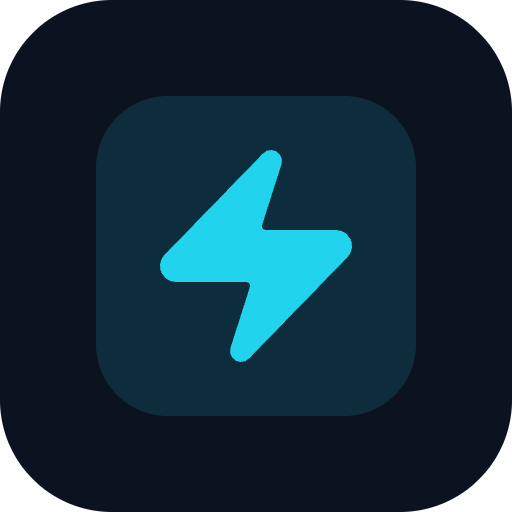
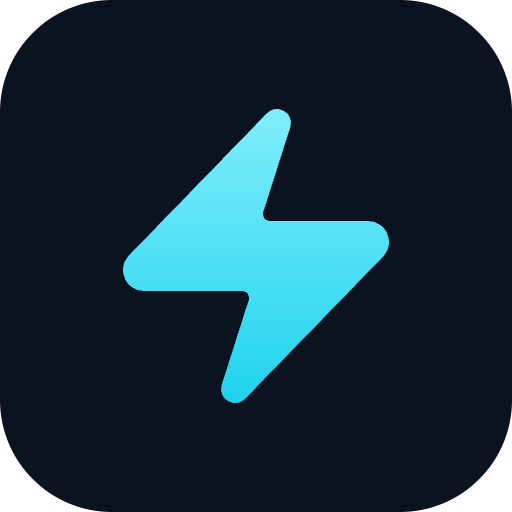
網站標誌：閃電放大、拿掉內層方塊；側欄標誌改實心
app-icon.svg 的閃電原本包在一層淡色方塊裡，16px 的分頁圖示上只剩約 7px。
改成直接放在底色上、佔約 2/3（仍在 maskable 的 80% 安全區內），加一點上下漸層；
PNG 由 build-icons.mjs 重產。sw.js 快取名升到 v4（圖示是快取優先，不升拿不到新圖）。
側欄的閃電改實心，和分頁圖示同一個形狀。
收合按鈕拿掉 aria-expanded：按鈕樣式對它有底色，展開時看起來像被按住。

diff --git a/web/src/components/AppShell.tsx b/web/src/components/AppShell.tsx
@@ -818,7 +818,6 @@ function NavToggle() {
       size="icon-sm"
       className="size-8 shrink-0 text-muted-foreground hover:text-foreground"
       aria-label={label}
-      aria-expanded={!shut}
       data-tip={`${label}（Ctrl+B）`}
       onClick={toggleSidebar}
     >
@@ -900,7 +899,8 @@ export function AppShell({
             <NavToggle />
             <div className="flex min-w-0 items-center gap-2 group-data-[collapsible=icon]:hidden">
               <div className="flex size-7 shrink-0 items-center justify-center rounded-md bg-primary/15">
-                <Zap className="size-4 text-primary" />
+                {/* 實心閃電：和分頁圖示（public/app-icon.svg）同一個形狀，顏色跟主題 */}
+                <Zap className="size-4 fill-current text-primary" />
               </div>
               <div className="min-w-0">
                 <div className="truncate text-sm font-semibold leading-tight">Mayhem 戰績</div>

diff --git a/web/public/sw.js b/web/public/sw.js
@@ -5,7 +5,7 @@
 // - 頁面（/、/dashboard…）：網路優先，斷線時才拿上一次的 index.html，所以改版後一連上就是新版。
 // - /api、/auth、/login 一律不碰：資料有登入與名稱遮罩，存進快取可能在別人的手機上看到不該看的東西；
 //   登入流程也不能被攔。
-const CACHE = "mayhem-shell-v3"
+const CACHE = "mayhem-shell-v4"
 const PAGES = new Set(["", "dashboard", "matches", "champions", "augments", "lineups", "players", "crew",
   "time", "tilt", "losses", "explore", "recap", "calc", "tracked", "settings", "logs",
   "score", "changelog"])

diff --git a/web/src/lib/changelog.ts b/web/src/lib/changelog.ts
@@ -26,6 +26,7 @@ export const CHANGELOG: ChangelogEntry[] = [
       "收合／展開側欄的按鈕搬到側欄左上角，展開和收合時都在同一個位置，按完不用再移滑鼠（Ctrl+B 也可以）",
       "按鈕上的箭頭會跟著狀態換方向：朝左是收起來、朝右是打開",
       "側欄收合後，最上面不再有一個歪掉的標誌",
+      "網站的閃電標誌放大了：瀏覽器分頁和手機主畫面上的小圖示比較看得出形狀（已經加到主畫面的要重新加一次才會換）",
     ],
   },
   {
